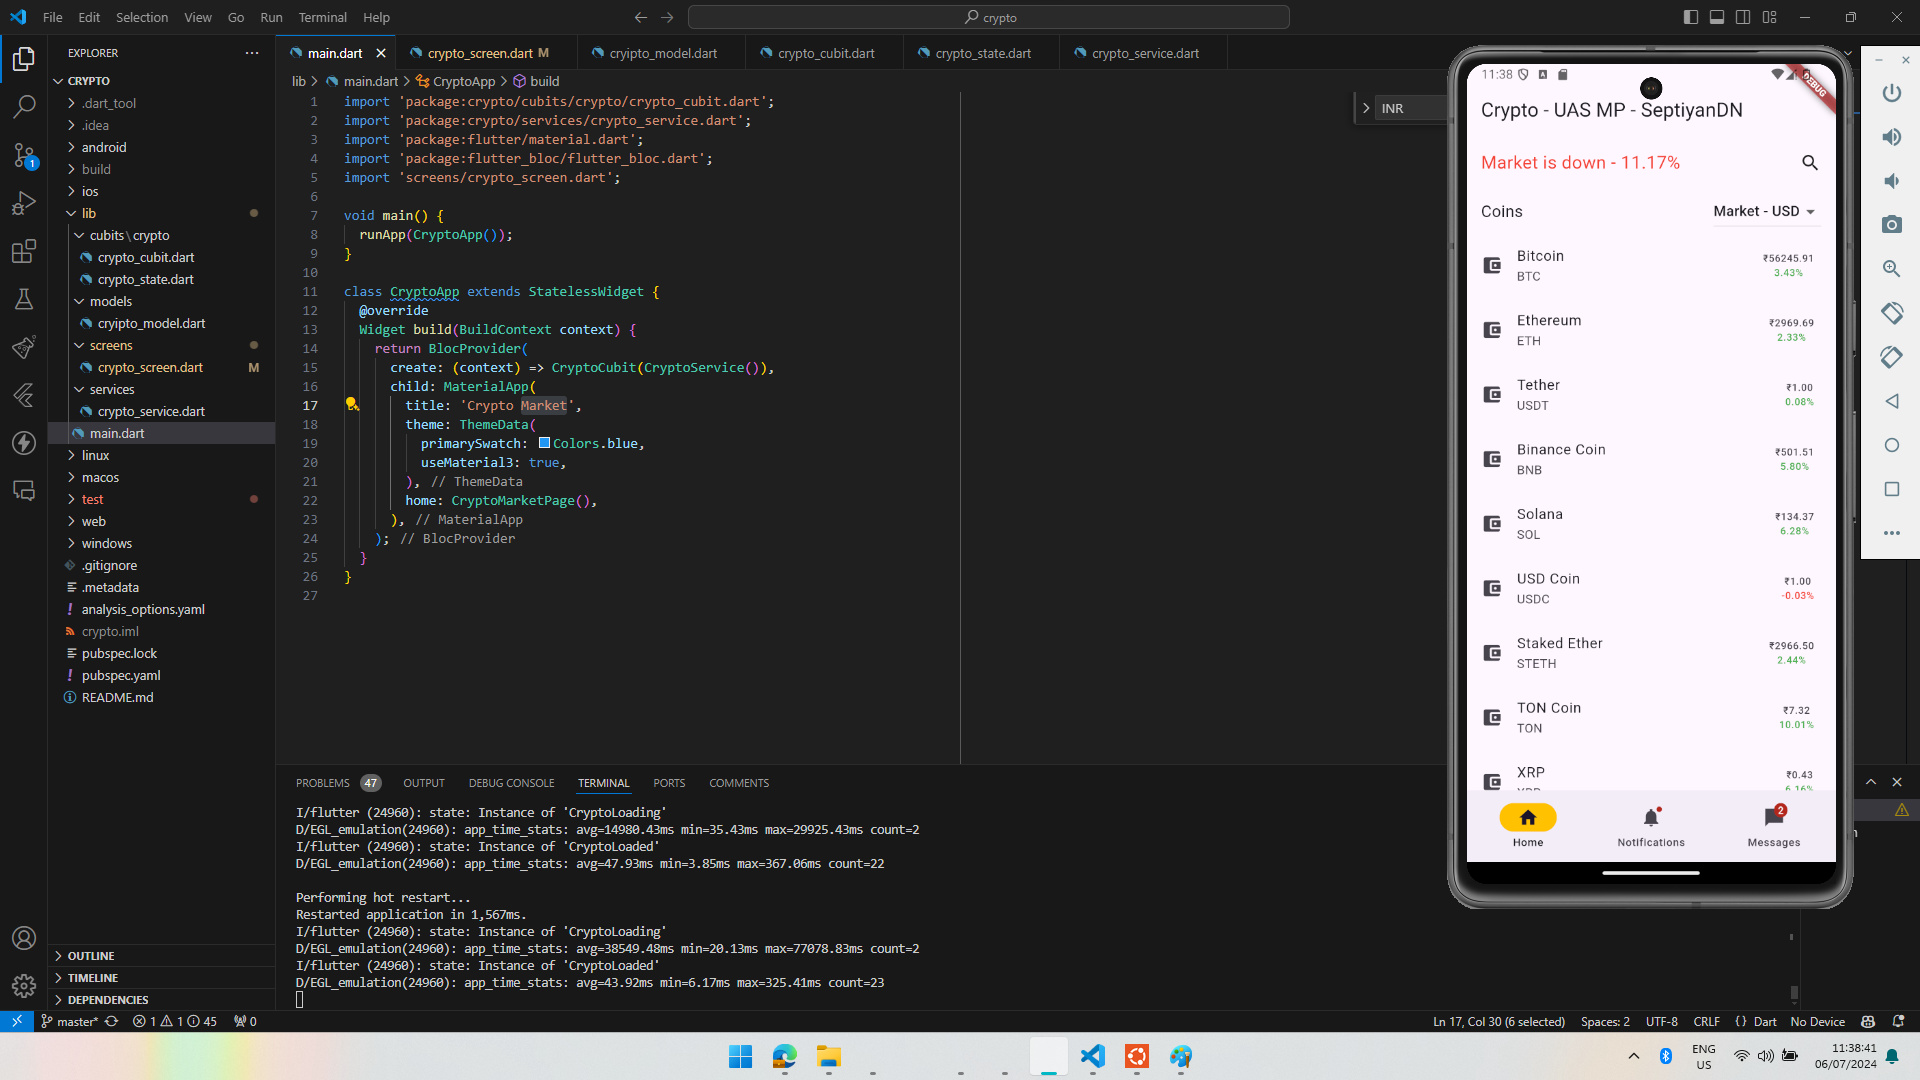
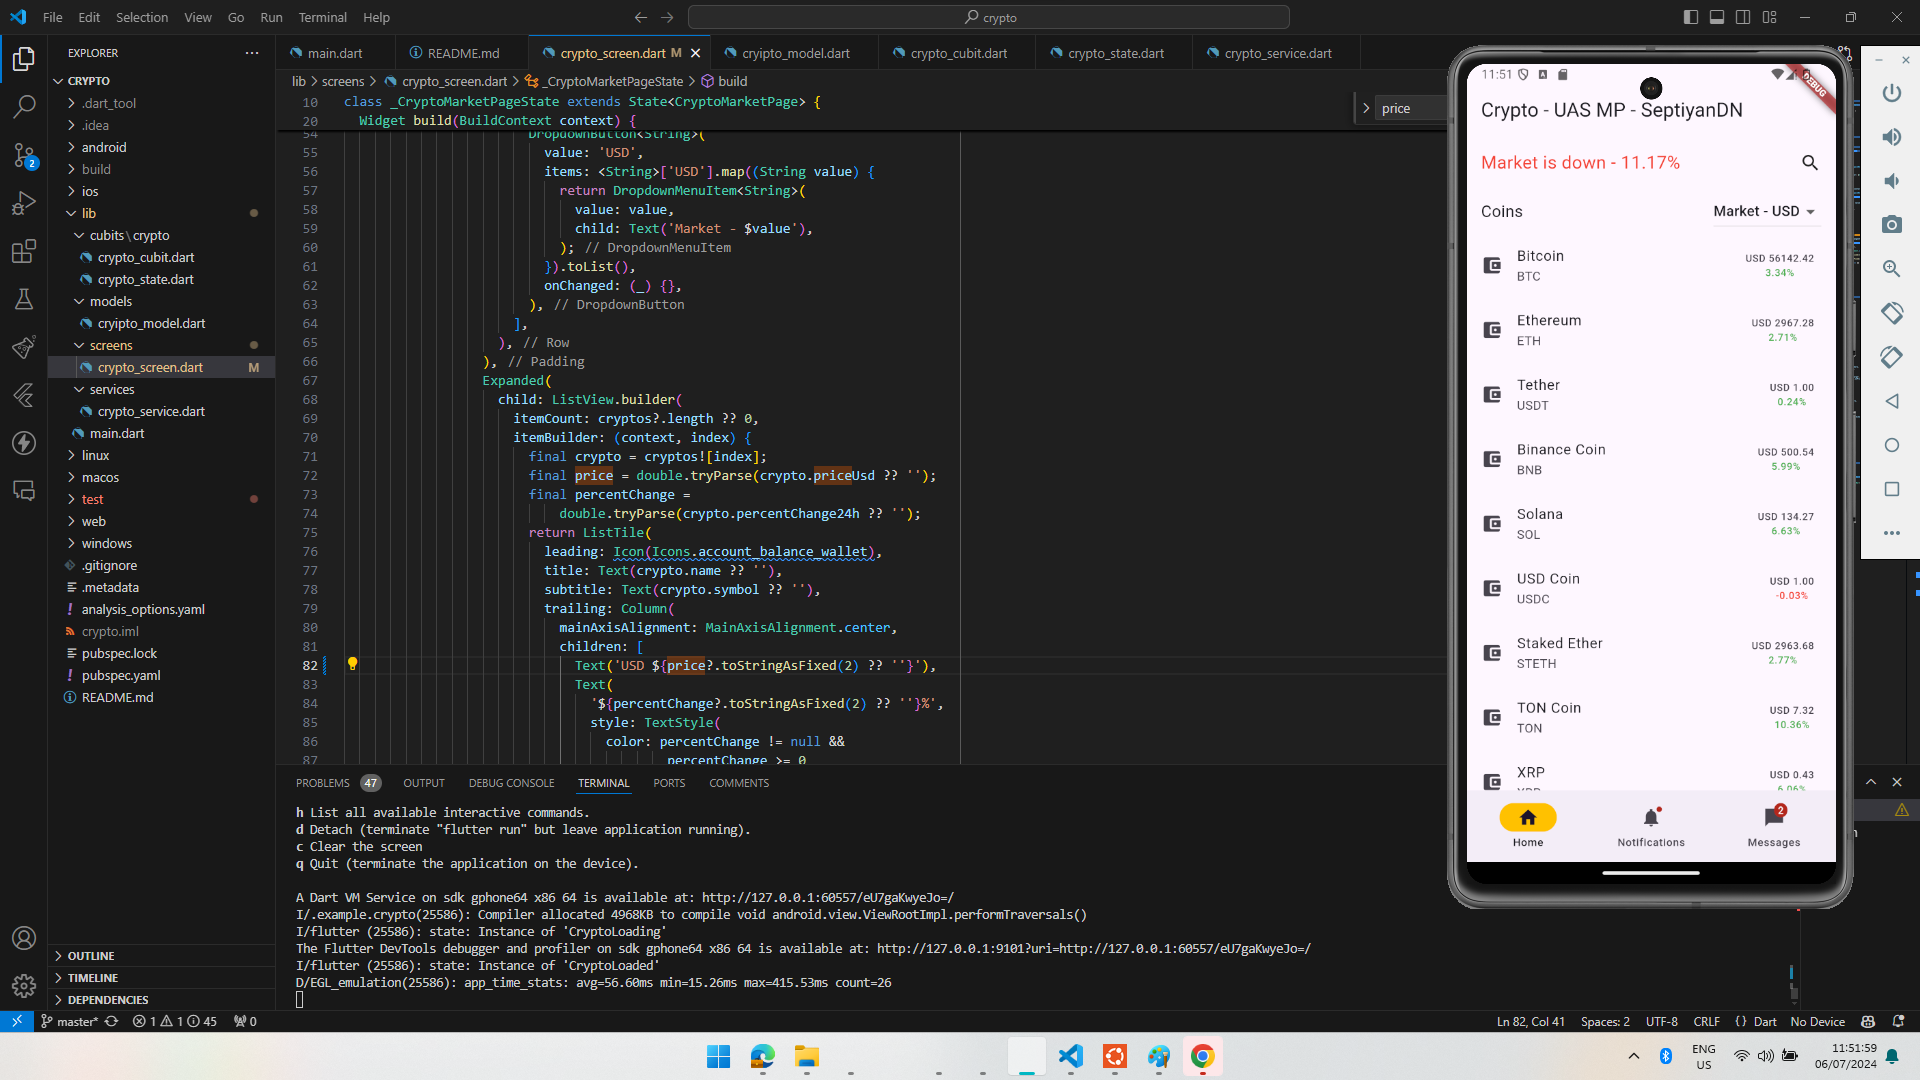
Update Image Screenshot

diff --git a/lib/screens/crypto_screen.dart b/lib/screens/crypto_screen.dart
@@ -79,7 +79,7 @@ class _CryptoMarketPageState extends State<CryptoMarketPage> {
                           trailing: Column(
                             mainAxisAlignment: MainAxisAlignment.center,
                             children: [
-                              Text('₹${price?.toStringAsFixed(2) ?? ''}'),
+                              Text('USD ${price?.toStringAsFixed(2) ?? ''}'),
                               Text(
                                 '${percentChange?.toStringAsFixed(2) ?? ''}%',
                                 style: TextStyle(
